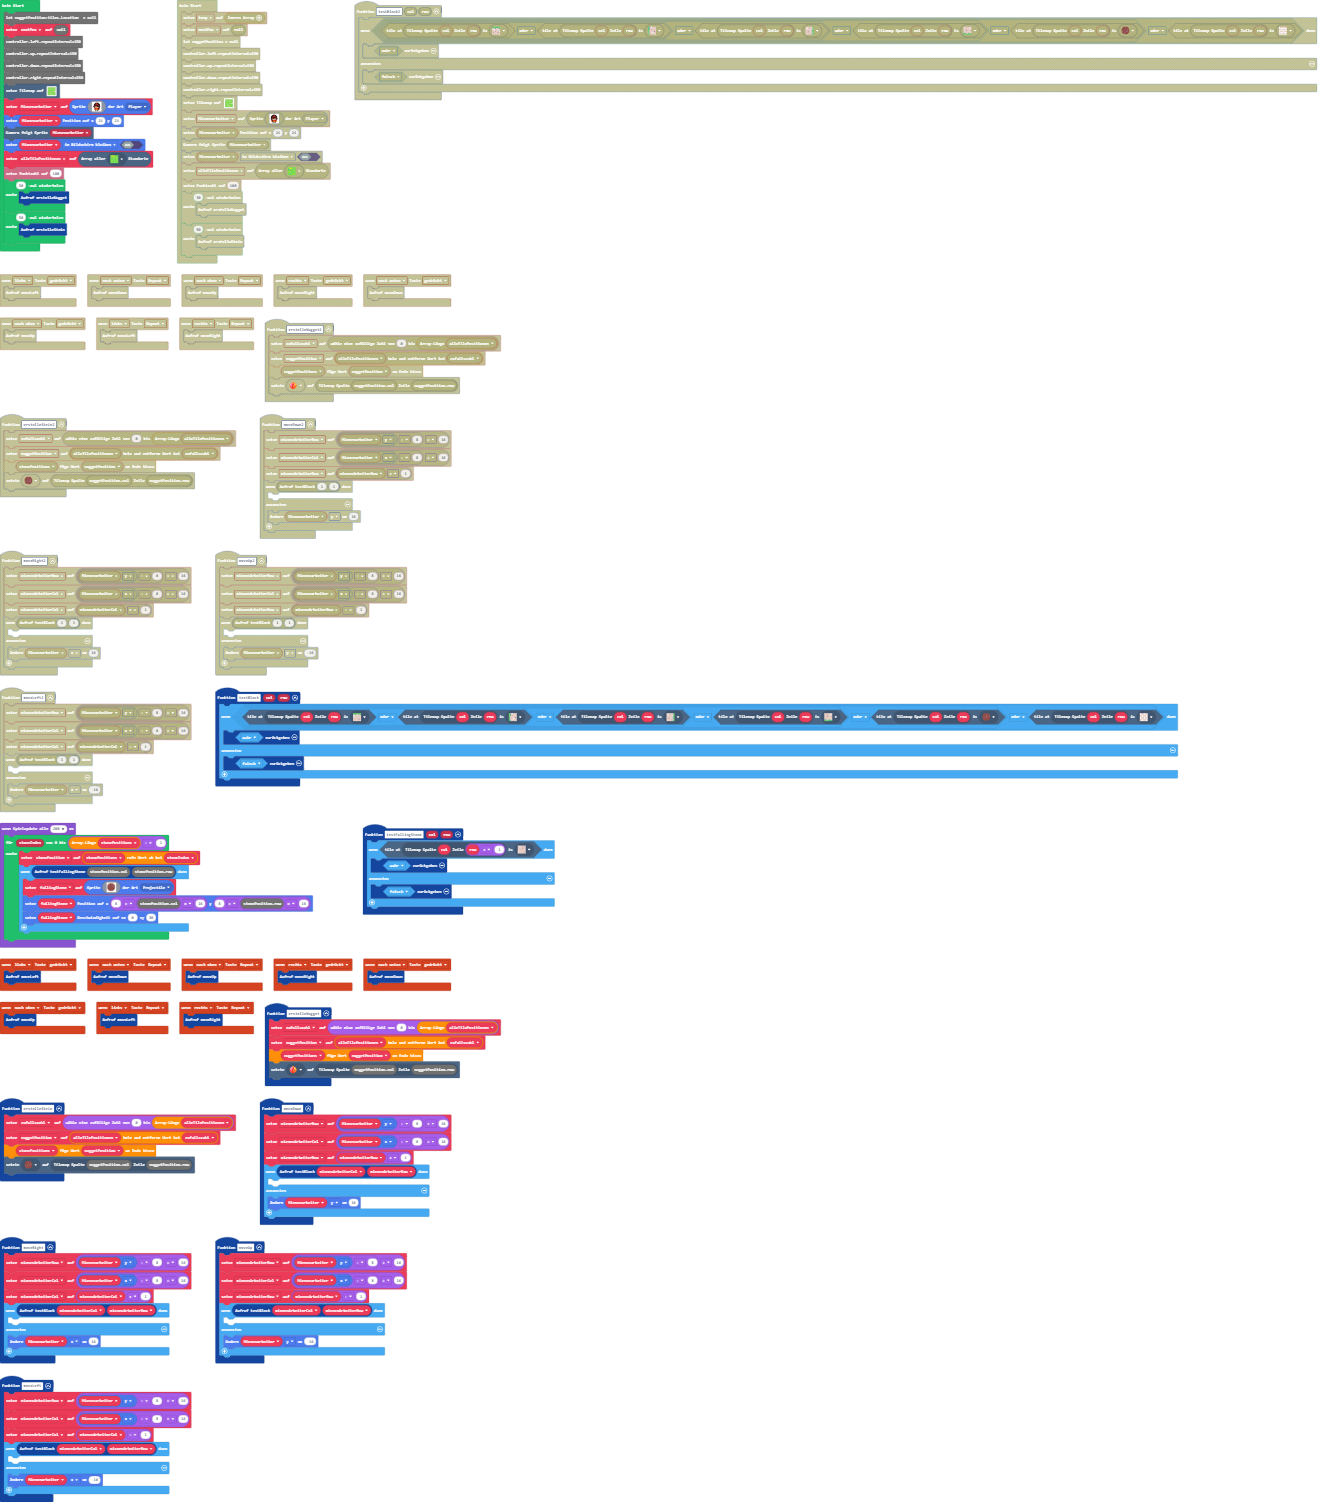
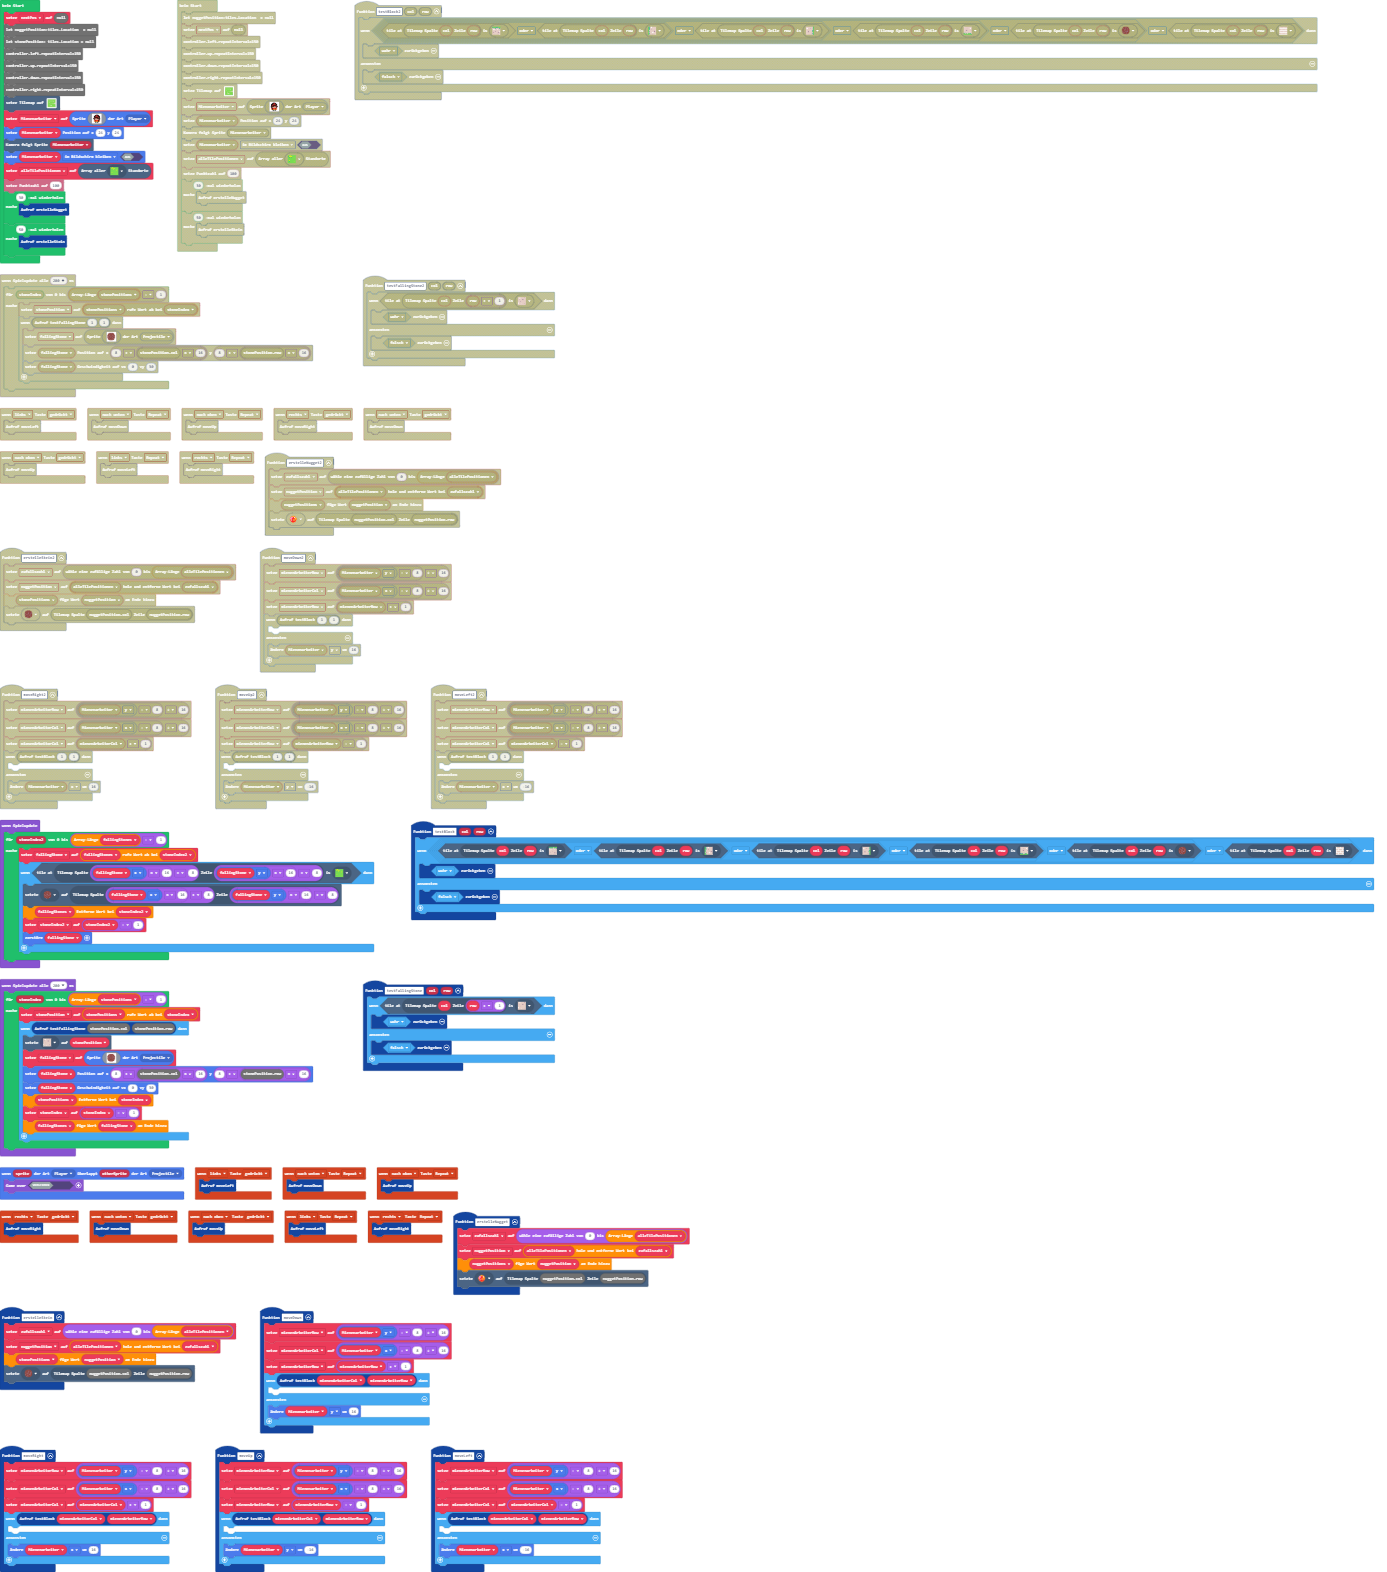
Add better handling of stones falling event

Changed region(s): [[0.0, 0.0, 1.0, 1.0], [0.2466, 0.0, 1.0, 0.0919]]

diff --git a/main.ts b/main.ts
@@ -31,7 +31,10 @@ controller.left.onEvent(ControllerButtonEvent.Pressed, function () {
     moveLeft()
 })
 function testFallingStone (col: number, row: number) {
-    if (tiles.tileAtLocationEquals(tiles.getTileLocation(col, row + 1), sprites.castle.tilePath5)) {
+    mienenArbeiterRow = (Mienenarbeiter.y - 8) / 16
+    mienenArbeiterCol = (Mienenarbeiter.x - 8) / 16
+    if ((tiles.tileAtLocationEquals(tiles.getTileLocation(col, row + 1), sprites.castle.tilePath5)) && 
+        (!((col == mienenArbeiterCol) && (row+1==mienenArbeiterRow)))) {
         return true
     } else {
         return false
@@ -55,6 +58,9 @@ function moveDown () {
 }
 controller.right.onEvent(ControllerButtonEvent.Pressed, function () {
     moveRight()
+})
+sprites.onOverlap(SpriteKind.Player, SpriteKind.Projectile, function (sprite, otherSprite) {
+    game.over(false)
 })
 controller.left.onEvent(ControllerButtonEvent.Repeated, function () {
     moveLeft()
@@ -103,16 +109,16 @@ scene.onOverlapTile(SpriteKind.Player, sprites.dungeon.collectibleInsignia, func
     game.over(false, effects.bubbles)
 })
 let fallingStone: Sprite = null
-let stonePosition: tiles.Location = null
+let fallingStones: Sprite[] = []
 let stonePositions: tiles.Location[] = []
-let fallingStones: Sprite[]=[]
 let zufallszahl = 0
 let mienenArbeiterCol = 0
 let mienenArbeiterRow = 0
 let alleTilePositionen: tiles.Location[] = []
 let Mienenarbeiter: Sprite = null
-let nuggetPosition:tiles.Location  = null
 let nextPos = null
+let nuggetPosition:tiles.Location  = null
+let stonePosition: tiles.Location = null
 controller.left.repeatInterval=150
 controller.up.repeatInterval=150
 controller.down.repeatInterval=150
@@ -147,6 +153,18 @@ for (let index = 0; index < 30; index++) {
 for (let index = 0; index < 50; index++) {
     erstelleStein()
 }
+game.onUpdate(function () {
+    for (let stoneIndex2 = 0; stoneIndex2 <= fallingStones.length - 1; stoneIndex2++) {
+        fallingStone = fallingStones[stoneIndex2]
+        console.debug("fallingStone.x:"+fallingStone.x+" y:"+fallingStone.y)
+        if (tiles.tileAtLocationEquals(tiles.getTileLocation((fallingStone.x -8)/16, (fallingStone.y - 8)/16), sprites.castle.tileGrass1)) {
+            tiles.setTileAt(tiles.getTileLocation(fallingStone.x * 16 + 8, fallingStone.y * 16 + 8), myTiles.tile1)
+            fallingStones.removeAt(stoneIndex2)
+            stoneIndex2 = stoneIndex2 - 1
+            fallingStone.destroy()
+        }
+    }
+})
 game.onUpdateInterval(100, function () {
     info.changeScoreBy(-1)
     if (info.score() == 0) {
@@ -154,7 +172,7 @@ game.onUpdateInterval(100, function () {
     }
 })
 game.onUpdateInterval(200, function () {
-    for (let stoneIndex = 0; stoneIndex < stonePositions.length ; stoneIndex++) {
+    for (let stoneIndex = 0; stoneIndex <= stonePositions.length - 1; stoneIndex++) {
         stonePosition = stonePositions[stoneIndex]
         if (testFallingStone(stonePosition.col, stonePosition.row)) {
             tiles.setTileAt(stonePosition, sprites.castle.tilePath5)
@@ -179,22 +197,8 @@ game.onUpdateInterval(200, function () {
             fallingStone.setPosition(8 + stonePosition.col * 16, 8 + stonePosition.row * 16)
             fallingStone.setVelocity(0, 30)
             stonePositions.removeAt(stoneIndex)
-            stoneIndex=stoneIndex-1
+            stoneIndex = stoneIndex - 1
             fallingStones.push(fallingStone)
-        }
-    }
-})
-
-game.onUpdate(function() {
-    for (let stoneIndex=0;stoneIndex<fallingStones.length;stoneIndex++)
-    {
-        fallingStone= fallingStones[stoneIndex]
-        if (tiles.tileAtLocationEquals(tiles.getTileLocation(fallingStone.x*16+8, fallingStone.y*16+8), sprites.castle.tileGrass1))
-        {
-            tiles.setTileAt(tiles.getTileLocation(fallingStone.x*16+8, fallingStone.y*16+8), myTiles.tile1)
-            fallingStones.removeAt(stoneIndex)
-            stoneIndex=stoneIndex-1
-            fallingStone.destroy()
         }
     }
 })
